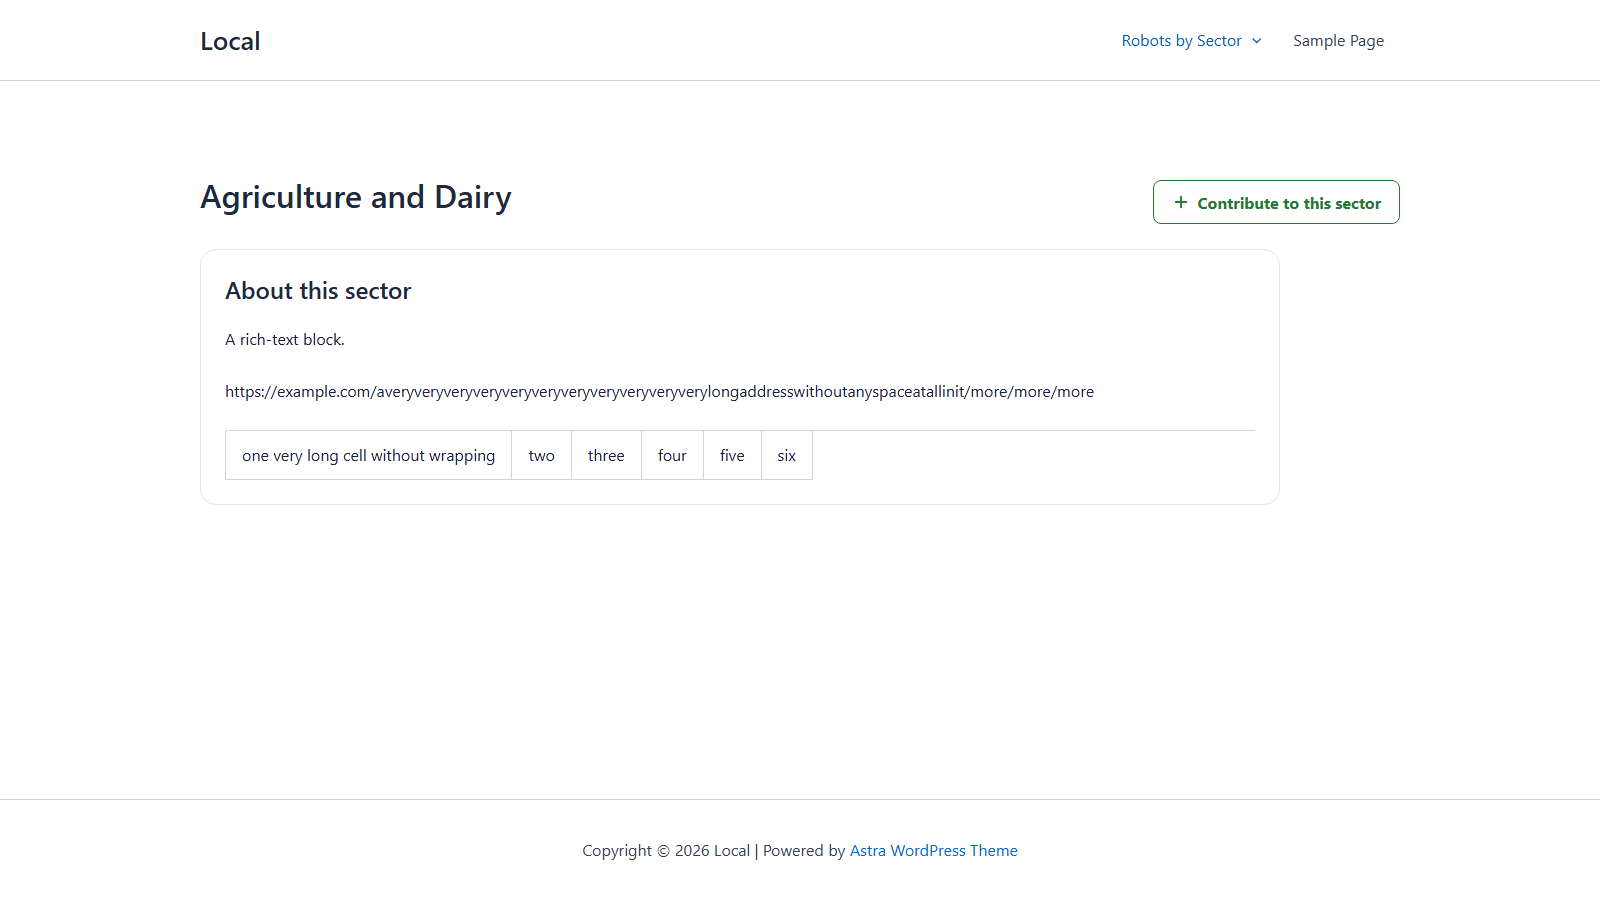
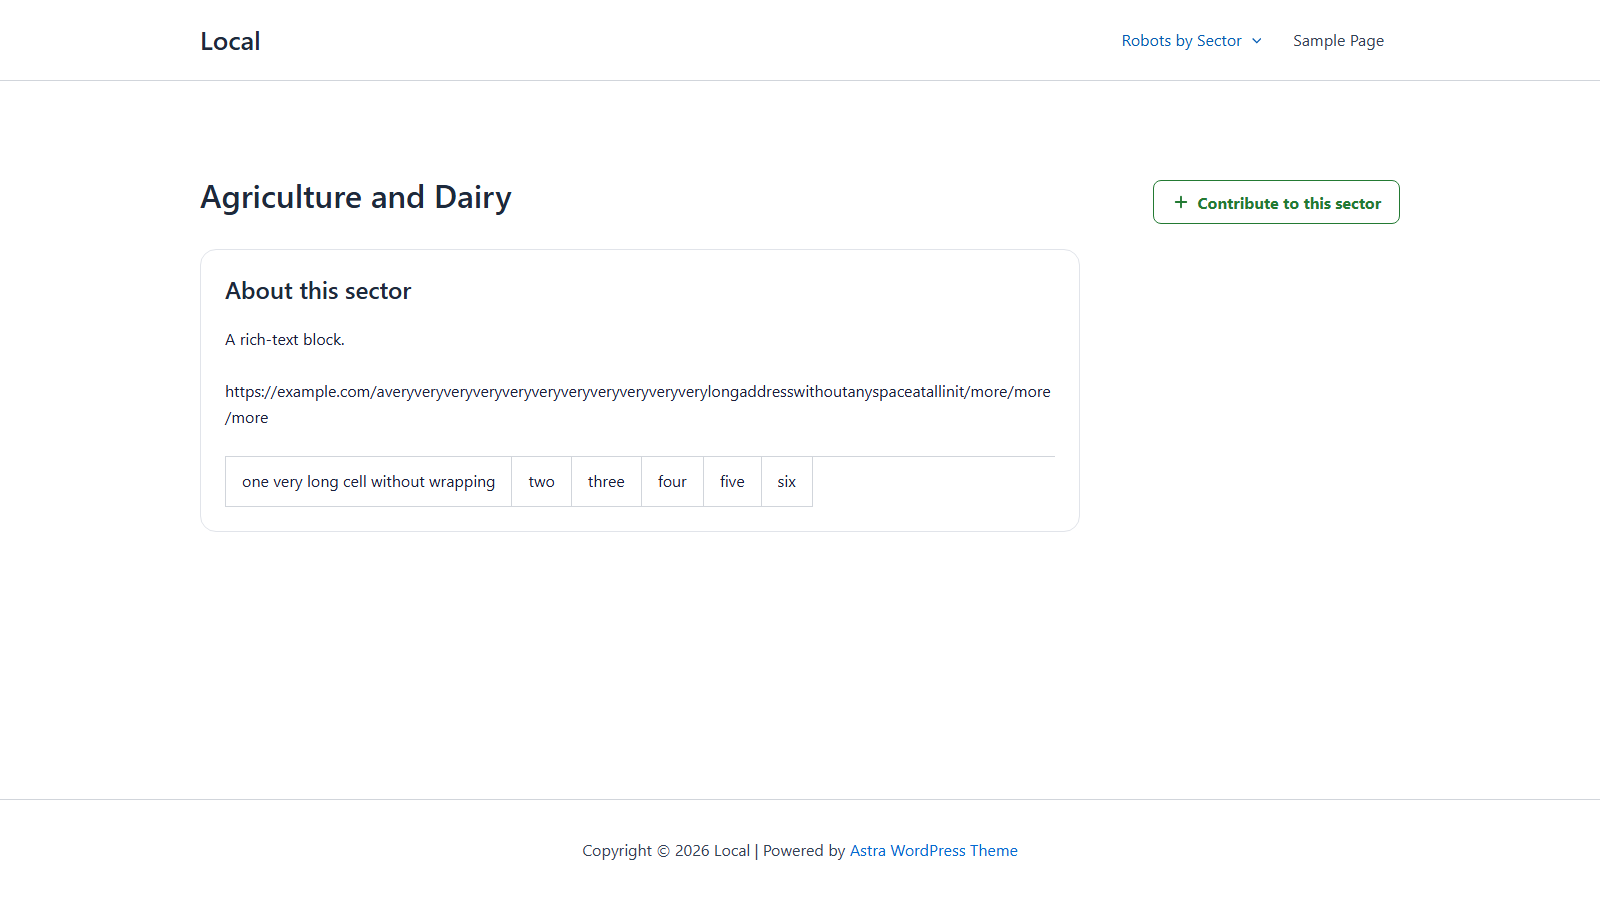
Set .rv-rt back to 880px (undoes B3 from #84); plugins 0.1.14 and 1.3.6
- rv-site.css: .rv-rt max-width 1080px -> 880px. Every other rule is as it
  was before #86.
- rv-contribution-v2 0.1.14 (0.1.13 was released by #86 and is not reused).
  README: NEW IN 0.1.14.
- robovalley-landing 1.3.6 (1.3.5 was released by #86); its code is the 1.3.4
  code. The plugin has no README in the repository; its release note goes in
  the ZIP's CHANGES.txt.
- The Contribute form is unchanged: rv-contribution-v2.html, .js and .css are
  byte-identical to main. Its box is limited by the form column (at most
  800px), so it looks the same.
- Reference file: the width texts and both copies of rv-site.css say 880px,
  plus one note under the B3 panel. Tests for the width and the version.
- Five screenshots retaken because their pixels changed.

Changed region(s): [[0.1562, 0.4978, 0.5, 0.5911], [0.6562, 0.4356, 0.6875, 0.4667]]

diff --git a/docs/reference/robovalley-admin-landing-updates.html b/docs/reference/robovalley-admin-landing-updates.html
@@ -590,7 +590,7 @@ video {
 /* The rich-text block. THE one place for it: anything inside an element with the class rv-rt gets this look, whenever it was added.
    Give the class to the container that all fields are rendered into, never to single fields. */
 .rv-rt {
-	max-width: 1080px;
+	max-width: 880px;
 	margin: 24px 0;
 	padding: 24px;
 	border: 1px solid #e1e4ea;
@@ -857,7 +857,7 @@ export const MAX_BAR = 28;</script>
 /* The rich-text block. THE one place for it: anything inside an element with the class rv-rt gets this look, whenever it was added.
    Give the class to the container that all fields are rendered into, never to single fields. */
 .rv-rt {
-	max-width: 1080px;
+	max-width: 880px;
 	margin: 24px 0;
 	padding: 24px;
 	border: 1px solid #e1e4ea;
@@ -1074,7 +1074,7 @@ function sectorForms() {
 /* ---------- 4. the landing page CSS (B1-B3, D) ---------- */
 var FIELDS = [["Which robot is it about?", "Milking robots"]];
 function stage(body, id) { return '<div class="ref-stage"><div class="' + body + '"><div class="ref-margins" id="' + id + '"><header class="entry-header ast-no-thumbnail ast-header-without-markup rv-c2-has-sector-cta"><h1 class="entry-title">Agriculture &amp; Dairy</h1><div class="rv-c2-sector-cta"><span class="rv-c2-sector-btn">+ Contribute to this sector</span></div></header></div></div><div class="ref-after-content">The page content starts here.</div></div>'; }
-function half(which, inner) { return '<div class="ref-half"><span class="ref-tag ' + which + '">' + (which === "after" ? "After: 1080px" : "Before: 880px") + '</span><div class="ref-scale"><div class="ref-page' + (which === "before" ? " ref-before-css" : "") + '">' + inner + '</div></div><p class="ref-count" data-measure="1"></p></div>'; }
+function half(which, inner) { return '<div class="ref-half"><span class="ref-tag ' + which + '">' + (which === "after" ? "After: 880px" : "Before: 880px") + '</span><div class="ref-scale"><div class="ref-page' + (which === "before" ? " ref-before-css" : "") + '">' + inner + '</div></div><p class="ref-count" data-measure="1"></p></div>'; }
 function block(label, value) { return '<div class="rv-rt"><h3>' + esc(label) + "</h3><p>" + esc(value) + "</p></div>"; }
 function fitPages() {
   Array.prototype.forEach.call(app.querySelectorAll(".ref-scale"), function (box) {
@@ -1090,12 +1090,12 @@ function fitPages() {
   });
 }
 function landing() {
-  var text = block("About this sector", "A rich-text block on a sector page. Its box is 880px wide before and 1080px after; on a narrow screen it is as wide as the screen allows, and nothing inside pushes the page sideways.") ;
+  var text = block("About this sector", "A rich-text block on a sector page. Its box is 880px wide, before and after; on a narrow screen it is as wide as the screen allows, and nothing inside pushes the page sideways.") ;
   var fields = function () { return FIELDS.map(function (f) { return block(f[0], f[1]); }).join(""); };
   app.innerHTML = '<div class="rv"><div class="adm ref-plain"><main class="ref-land"><h1>Landing page CSS</h1><p>Live previews with the exact stylesheet that ships: rv-contribution-v2/assets/rv-site.css. The striped area is the margin.</p>' +
-    note("The entry header has more room (B1, B2), the rich-text block is 1080px wide instead of 880px (B3), and <b>new fields added by admins automatically use .rv-rt at 1080px</b> (D): the class is on the container that all fields are put into, not on single fields. The stylesheet loads after Astra's, so it wins without !important.") +
+    note("The entry header has more room (B1, B2), the rich-text block stays 880px wide (B3 was taken back in plugin 0.1.14), and <b>new fields added by admins automatically use .rv-rt at 880px</b> (D): the class is on the container that all fields are put into, not on single fields. The stylesheet loads after Astra's, so it wins without !important.") +
     '<div class="ref-two"><div><h2>B1: single post, 35px above, 25px below</h2>' + stage("ast-single-post", "b1") + '</div><div><h2>B2: page-builder page, 25px above, 15px below</h2>' + stage("ast-single-post ast-page-builder-template", "b2") + "</div></div>" +
-    '<h2>B3: the rich-text block</h2><div class="ref-two">' + half("before", text) + half("after", text) + "</div>" +
+    '<h2>B3: the rich-text block</h2><div class="ref-two">' + half("before", text) + half("after", text) + "</div>" + '<p class="ref-count">Width reverted to 880px in 0.1.14; Before and After are now the same.</p>' +
     '<h2>D: an admin adds a new field</h2><p>Type a label and a value. Each field appears as a new .rv-rt block on both sides; no CSS is added for it.</p><form class="ref-form" id="add"><label>Field label<input id="f-label" maxlength="80" required value="Village or district"></label><label>Value<textarea id="f-value" maxlength="2000" required>Guntur district, Andhra Pradesh</textarea></label><button class="btn primary" type="submit">Add field</button><button class="btn" type="button" id="long">Add a very long one</button></form><p class="sr" role="status" id="said"></p>' +
     '<div class="ref-two" id="demo">' + half("before", fields()) + half("after", fields()) + "</div>" +
     '<h2>The CSS that ships</h2><pre class="ref-code">' + esc(code("code-css")) + "</pre></main></div></div>";

diff --git a/tests/rv-site-css.test.ts b/tests/rv-site-css.test.ts
@@ -29,9 +29,9 @@ describe("B1 and B2: the space around the entry header", () => {
 });
 
 describe("B3: the .rv-rt block", () => {
-  it("has the agreed look, 1080px wide, and shrinks with a narrow screen", () => {
+  it("has the agreed look, 880px wide, and shrinks with a narrow screen", () => {
     expect(ruleOf(".rv-rt")).toHaveLength(1);
-    expect(ruleOf(".rv-rt")[0].body).toEqual(["max-width: 1080px", "margin: 24px 0", "padding: 24px", "border: 1px solid #e1e4ea", "border-radius: 16px", "background: #fff", "color: #1b1f3b", "width: 100%", "box-sizing: border-box", "overflow-wrap: anywhere"]);
+    expect(ruleOf(".rv-rt")[0].body).toEqual(["max-width: 880px", "margin: 24px 0", "padding: 24px", "border: 1px solid #e1e4ea", "border-radius: 16px", "background: #fff", "color: #1b1f3b", "width: 100%", "box-sizing: border-box", "overflow-wrap: anywhere"]);
     expect(ruleOf(".rv-rt table")[0].body).toContain("overflow-x: auto");
     expect(ruleOf(".rv-rt img")[0].body).toContain("max-width: 100%");
   });
@@ -40,7 +40,7 @@ describe("B3: the .rv-rt block", () => {
     for (const f of files) {
       const t = read(f).replace(/\/\*[\s\S]*?\*\//g, ""); // rules, not mentions in comments
       if (!f.replace(/\\/g, "/").endsWith("rv-contribution-v2/assets/rv-site.css")) expect(t, f).not.toMatch(/\.rv-rt\b[^{};]*\{/); // a rule, not a mention in a comment
-      expect(t, f).not.toMatch(/880px/);
+      if (!f.replace(/\\/g, "/").endsWith("rv-contribution-v2/assets/rv-site.css")) expect(t, f).not.toMatch(/880px/); // the width is set in rv-site.css only
       expect(t, f).not.toMatch(/class="[^"]*\brv-rt\b[^"]*"[^>]*style=/);
     }
   });

diff --git a/tests/rv-contribution-v2.test.ts b/tests/rv-contribution-v2.test.ts
@@ -239,8 +239,8 @@ describe("?sector= preselects sectors (the Contribute to this sector link)", () 
     const create = calls.find((c) => c.method === "POST" && c.path === "/api/contributions");
     expect(create?.body.sectors).toEqual(["education"]);
   });
-  it("the plugin version moved to 0.1.12 so browsers fetch the new styles and markup", () => {
-    expect(PHP).toMatch(/Version: 0\.1\.12/); expect(PHP).toMatch(/RV_C2_VERSION = '0\.1\.12'/);
+  it("the plugin version moved to 0.1.14 so browsers fetch the new styles", () => {
+    expect(PHP).toMatch(/Version: 0\.1\.14/); expect(PHP).toMatch(/RV_C2_VERSION = '0\.1\.14'/);
   });
 });
 

diff --git a/frontend/wordpress/plugins/rv-contribution-v2/assets/rv-site.css b/frontend/wordpress/plugins/rv-contribution-v2/assets/rv-site.css
@@ -20,7 +20,7 @@
 /* The rich-text block. THE one place for it: anything inside an element with the class rv-rt gets this look, whenever it was added.
    Give the class to the container that all fields are rendered into, never to single fields. */
 .rv-rt {
-	max-width: 1080px;
+	max-width: 880px;
 	margin: 24px 0;
 	padding: 24px;
 	border: 1px solid #e1e4ea;

diff --git a/frontend/wordpress/plugins/rv-contribution-v2/rv-contribution-v2.php b/frontend/wordpress/plugins/rv-contribution-v2/rv-contribution-v2.php
@@ -2,7 +2,7 @@
 /**
  * Plugin Name: RoboValley Contribution (v2)
  * Description: The new Contribute form for the Contribution and Contributor pages. It only renders the form and talks to the RoboValley app; it stores nothing in WordPress. Nothing changes until RV_CONTRIBUTION_V2 is set to true in wp-config.php.
- * Version: 0.1.12
+ * Version: 0.1.14
  * Requires PHP: 7.4
  * Author: RoboValley
  *
@@ -37,7 +37,7 @@ if ( ! defined( 'ABSPATH' ) ) {
 	exit;
 }
 
-const RV_C2_VERSION = '0.1.12';
+const RV_C2_VERSION = '0.1.14';
 
 /** A WordPress administrator? They review contributions in the app, so the form and the buttons are hidden from them (display only). */
 function rv_c2_is_wp_admin() {

diff --git a/frontend/wordpress/plugins/robovalley-landing/robovalley-landing.php b/frontend/wordpress/plugins/robovalley-landing/robovalley-landing.php
@@ -2,7 +2,7 @@
 /**
  * Plugin Name:       RoboValley Landing
  * Description:       Scoped styles, self-hosted fonts and the slider and chart scripts for the RoboValley landing page. Loads only on pages flagged with the robovalley_landing meta.
- * Version:           1.3.4
+ * Version:           1.3.6
  * Requires at least: 6.4
  * Requires PHP:      7.4
  * Author:            RoboValley
@@ -14,7 +14,7 @@ if ( ! defined( 'ABSPATH' ) ) {
 	exit;
 }
 
-define( 'ROBOVALLEY_LANDING_VERSION', '1.3.4' );
+define( 'ROBOVALLEY_LANDING_VERSION', '1.3.6' );
 
 /**
  * Per-page opt-in flag. Editable through the REST API by users who can edit the page.
